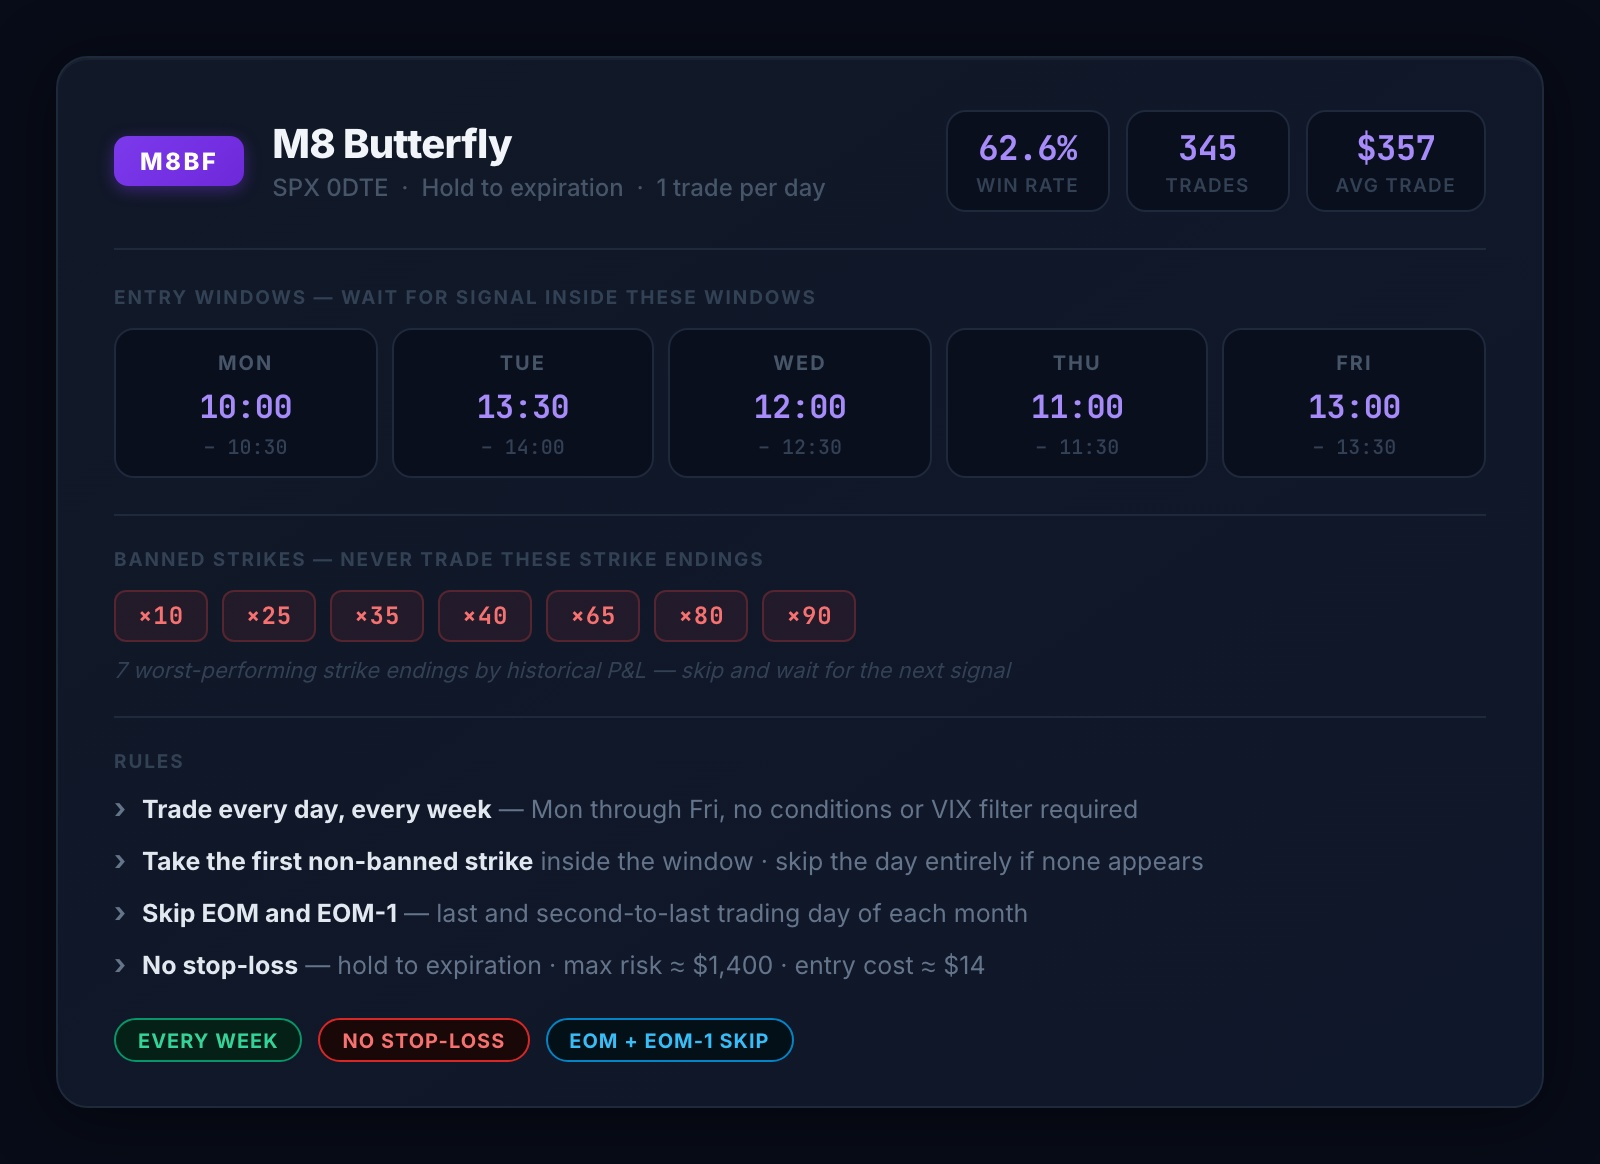
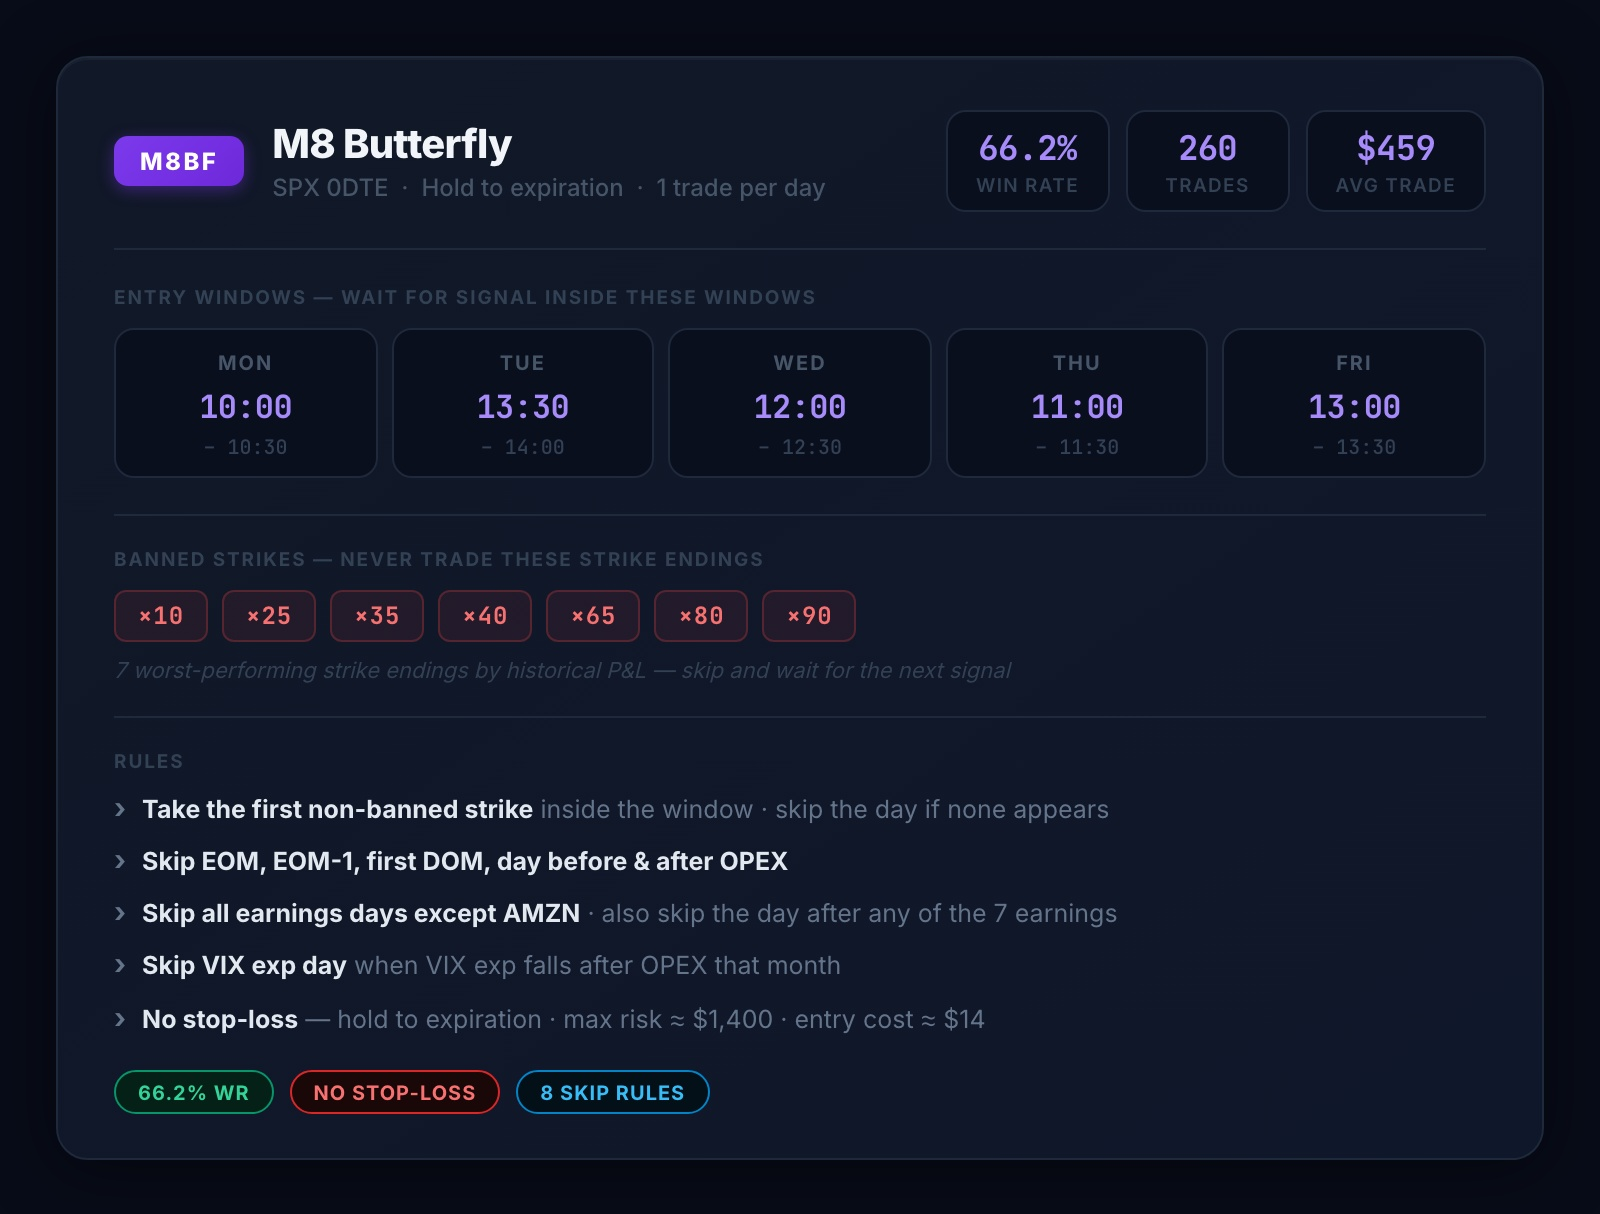
M8BF: add 6 new skip rules, update stats and strategy card
New skip rules added to M8BF logic:
- Day before OPEX
- Day after OPEX
- First trading day of each month
- All earnings days except AMZN (NVDA, TSLA, MSFT, META, GOOG, AAPL)
- Day after any of the 7 earnings
- VIX exp day when VIX exp falls after OPEX that month

Also adds TSLA to earnings schedule (was tracking 6 companies, now 7).

Updated stats: 260 trades · 66.2% WR · $459 avg (was 345 / 62.6% / $357).
Updated move.jpg strategy card and overview text.

diff --git a/index.html b/index.html
@@ -543,12 +543,12 @@
     <hr class="divider">
     <h3>M8 Butterfly (M8BF)</h3>
     <ul>
-      <li><strong>Trades every week, every day Mon–Fri.</strong> No VIX filter required.</li>
-      <li>Each day has a fixed <strong>30-minute entry window</strong>: Mon 10:00–10:30 · Tue 13:30–14:00 · Wed 12:00–12:30 · Thu 11:00–11:30 · Fri 13:00–13:30.</li>
-      <li>Enter the <strong>first qualifying strike</strong> that appears inside the window. One trade per day. Skip the day if no qualifying strike appears.</li>
-      <li><strong>Banned strikes:</strong> 10, 25, 35, 40, 65, 80, 90 — never trade these regardless of day or signal. These are the 7 worst-performing strike endings by historical P&amp;L.</li>
-      <li><strong>Not traded</strong> on EOM (last trading day of month) or EOM-1 (second-to-last trading day).</li>
+      <li><strong>Trades every week, every day Mon–Fri</strong> inside fixed 30-minute windows: Mon 10:00–10:30 · Tue 13:30–14:00 · Wed 12:00–12:30 · Thu 11:00–11:30 · Fri 13:00–13:30.</li>
+      <li>Enter the <strong>first qualifying strike</strong> inside the window. One trade per day. Skip if none appears.</li>
+      <li><strong>Banned strikes:</strong> 10, 25, 35, 40, 65, 80, 90 — the 7 worst-performing strike endings by historical P&amp;L. Never trade these.</li>
+      <li><strong>Not traded on:</strong> EOM and EOM-1 · day before OPEX · day after OPEX · first trading day of month · VIX exp day when VIX exp falls after OPEX · all earnings days except AMZN · day after any earnings (NVDA, TSLA, AMZN, MSFT, META, GOOG, AAPL).</li>
       <li>No stop-loss — hold to expiration. Max risk: <strong>$1,400</strong>. Entry cost ≈ $14.</li>
+      <li>Historical (Aug 2024–Mar 2026): <strong>260 trades · 66.2% WR · $459 avg/trade · $119,270 total</strong>.</li>
     </ul>
 
     <hr class="divider">
@@ -582,7 +582,7 @@
     <h3>BOBF</h3>
     <ul>
       <li><a href="https://optionomega.com/share/gd2bRi16syr3R1UaGVUE" target="_blank" rel="noopener">OptionOmega – BOBF base</a></li>
-      <li><strong>Not traded</strong> on all 6 earnings days: MSFT, META, GOOGL, AMZN, AAPL, NVDA.</li>
+      <li><strong>Not traded</strong> on all 7 earnings days: MSFT, META, GOOGL, AMZN, AAPL, NVDA, TSLA.</li>
       <li><strong>Not traded</strong> on monthly VIX expiration days.</li>
       <li><strong>Not traded</strong> on OPEX.</li>
       <li><strong>Not traded</strong> on OPEX-1 (day before OPEX).</li>
@@ -664,11 +664,13 @@
     // ── Q1 2026 (Jan/Feb reports) ──
     { date:"January 28, 2026",  company:"Microsoft", ticker:"MSFT", timing:"AH", confirmed:true },
     { date:"January 28, 2026",  company:"Meta",      ticker:"META", timing:"AH", confirmed:true },
+    { date:"January 29, 2026",  company:"Tesla",     ticker:"TSLA", timing:"AH", confirmed:true },
     { date:"January 29, 2026",  company:"Apple",     ticker:"AAPL", timing:"AH", confirmed:true },
     { date:"February 4, 2026",  company:"Alphabet",  ticker:"GOOGL",timing:"AH", confirmed:true },
     { date:"February 5, 2026",  company:"Amazon",    ticker:"AMZN", timing:"AH", confirmed:true },
     { date:"February 26, 2026", company:"NVIDIA",    ticker:"NVDA", timing:"AH", confirmed:true },
     // ── Q2 2026 (Apr/May reports) ──
+    { date:"April 22, 2026",    company:"Tesla",     ticker:"TSLA", timing:"AH", confirmed:false },
     { date:"April 23, 2026",    company:"Alphabet",  ticker:"GOOGL",timing:"AH", confirmed:false },
     { date:"April 28, 2026",    company:"Microsoft", ticker:"MSFT", timing:"AH", confirmed:false },
     { date:"April 29, 2026",    company:"Meta",      ticker:"META", timing:"AH", confirmed:true  },
@@ -676,6 +678,7 @@
     { date:"April 30, 2026",    company:"Amazon",    ticker:"AMZN", timing:"AH", confirmed:false },
     { date:"May 20, 2026",      company:"NVIDIA",    ticker:"NVDA", timing:"AH", confirmed:true  },
     // ── Q3 2026 (Jul/Aug reports — estimates) ──
+    { date:"July 22, 2026",     company:"Tesla",     ticker:"TSLA", timing:"AH", confirmed:false },
     { date:"July 23, 2026",     company:"Alphabet",  ticker:"GOOGL",timing:"AH", confirmed:false },
     { date:"July 28, 2026",     company:"Microsoft", ticker:"MSFT", timing:"AH", confirmed:false },
     { date:"July 29, 2026",     company:"Meta",      ticker:"META", timing:"AH", confirmed:false },
@@ -683,6 +686,7 @@
     { date:"July 30, 2026",     company:"Amazon",    ticker:"AMZN", timing:"AH", confirmed:false },
     { date:"August 19, 2026",   company:"NVIDIA",    ticker:"NVDA", timing:"AH", confirmed:false },
     // ── Q4 2026 (Oct/Nov reports — estimates) ──
+    { date:"October 21, 2026",  company:"Tesla",     ticker:"TSLA", timing:"AH", confirmed:false },
     { date:"October 22, 2026",  company:"Alphabet",  ticker:"GOOGL",timing:"AH", confirmed:false },
     { date:"October 27, 2026",  company:"Microsoft", ticker:"MSFT", timing:"AH", confirmed:false },
     { date:"October 28, 2026",  company:"Meta",      ticker:"META", timing:"AH", confirmed:false },
@@ -691,8 +695,19 @@
     { date:"November 18, 2026", company:"NVIDIA",    ticker:"NVDA", timing:"AH", confirmed:false },
   ];
 
-  /* Helper: is today an earnings day for any of the 6 companies? */
+  /* Helper: is today an earnings day for any of the 7 companies? */
   function isEarningsDay() { return earningsSchedule.some(e => e.date === todayLong()); }
+  /* M8BF-specific: earnings day that is NOT AMZN */
+  const isNonAmznEarningsDay = () => earningsSchedule.some(e => e.date === todayLong() && e.ticker !== 'AMZN');
+  /* M8BF-specific: today is the trading day after ANY of the 7 earnings */
+  const isDayAfterAnyEarnings = () => earningsSchedule.some(isTodayAfter);
+  /* M8BF-specific: today is VIX exp day AND VIX exp falls AFTER OPEX this month */
+  function isVixAfterOpexDay(ref=new Date()){
+    if(!isVixExp()) return false;
+    const vx=schedInMonth(vixSch,ref), op=schedInMonth(opexSch,ref);
+    if(!vx||!op) return false;
+    return vx > op;
+  }
 
   /* ====== SCHEDULES ====== */
   const cpiSch   = ["January 13, 2026","February 13, 2026","March 11, 2026","April 10, 2026","May 12, 2026","June 10, 2026","July 14, 2026","August 12, 2026","September 11, 2026","October 14, 2026","November 10, 2026","December 10, 2026"];
@@ -1104,9 +1119,20 @@
     const eomDay=isLastTradeMo(now), eom1=isEomN(1,now), eom2=isEomN(2,now);
     const vixExpDay=isVixExp(), opex1=opexSch.some(isTodayBefore);
     const earningsDay=isEarningsDay();
-    // MSFT or META earnings → block M8BF; other earnings → M8BF allowed
-    const msftMetaEarnings = earningsSchedule.some(e => e.date===todayLong() && (e.ticker==='MSFT'||e.ticker==='META'));
-    const otherEarningsOnly = earningsDay && !msftMetaEarnings;
+
+    // ── M8BF block rules (checked independently of other strategy cards) ──
+    const m8bfBlocked=(()=>{
+      const blk=(r,n)=>({r,n});
+      if(eomDay)                  return blk("No M8BF (EOM)",              "M8BF not traded on EOM");
+      if(eom1)                    return blk("No M8BF (EOM-1)",            "M8BF not traded on EOM-1");
+      if(opex1)                   return blk("No M8BF (day before OPEX)",  "Skipped day before OPEX");
+      if(postOpDay)               return blk("No M8BF (day after OPEX)",   "Skipped day after OPEX");
+      if(isNonAmznEarningsDay())  return blk("No M8BF (earnings)",         "Not traded on earnings days (except AMZN)");
+      if(isDayAfterAnyEarnings()) return blk("No M8BF (day after earnings)","Not traded day after any earnings");
+      if(isVixAfterOpexDay())     return blk("No M8BF (VIX exp post-OPEX)","VIX exp falls after OPEX this month");
+      if(nmDay)                   return blk("No M8BF (first trading day)", "Skipped on first trading day of month");
+      return null;
+    })();
 
     // tags
     const tmap={cpiTag:cpiDay,fedTag:fedDay,opexTag:opexDay,postOpexTag:postOpDay,eomTag:eomDay};
@@ -1214,11 +1240,18 @@
     const gxbfReason= document.getElementById('gxbfReason');
 
     // ── CARD 1: M8BF ──
-    // Active when theme is m8bf OR on Thu/Fri (every week)
     const dowSched = m8Sched(dow);
     const thurfri = dowSched && dowSched.everyWeek;
 
-    if(theme==='m8bf'){
+    if(m8bfBlocked){
+      // New skip rules take full priority — always show as BLOCKED
+      if(m8bfBlocked.r.includes('EOM')||m8bfBlocked.r.includes('OPEX')||m8bfBlocked.r.includes('earnings')||m8bfBlocked.r.includes('VIX')||m8bfBlocked.r.includes('first'))
+        strikeInfo=null;
+      cardM8bf.className='scard active-block';
+      m8bfBadge.textContent='BLOCKED';
+      m8bfRec.innerHTML=`<span class="crossed">${m8bfBlocked.r}</span>`;
+      m8bfReason.innerHTML=`<span class="block-hard">⛔ ${m8bfBlocked.n}</span>`;
+    } else if(theme==='m8bf'){
       cardM8bf.className='scard active-m8bf';
       m8bfBadge.textContent=entryT?`🕐 ${entryT}`:'TRADE';
       m8bfRec.innerHTML=crossed?`<span class="crossed">${rec}</span>`:rec;